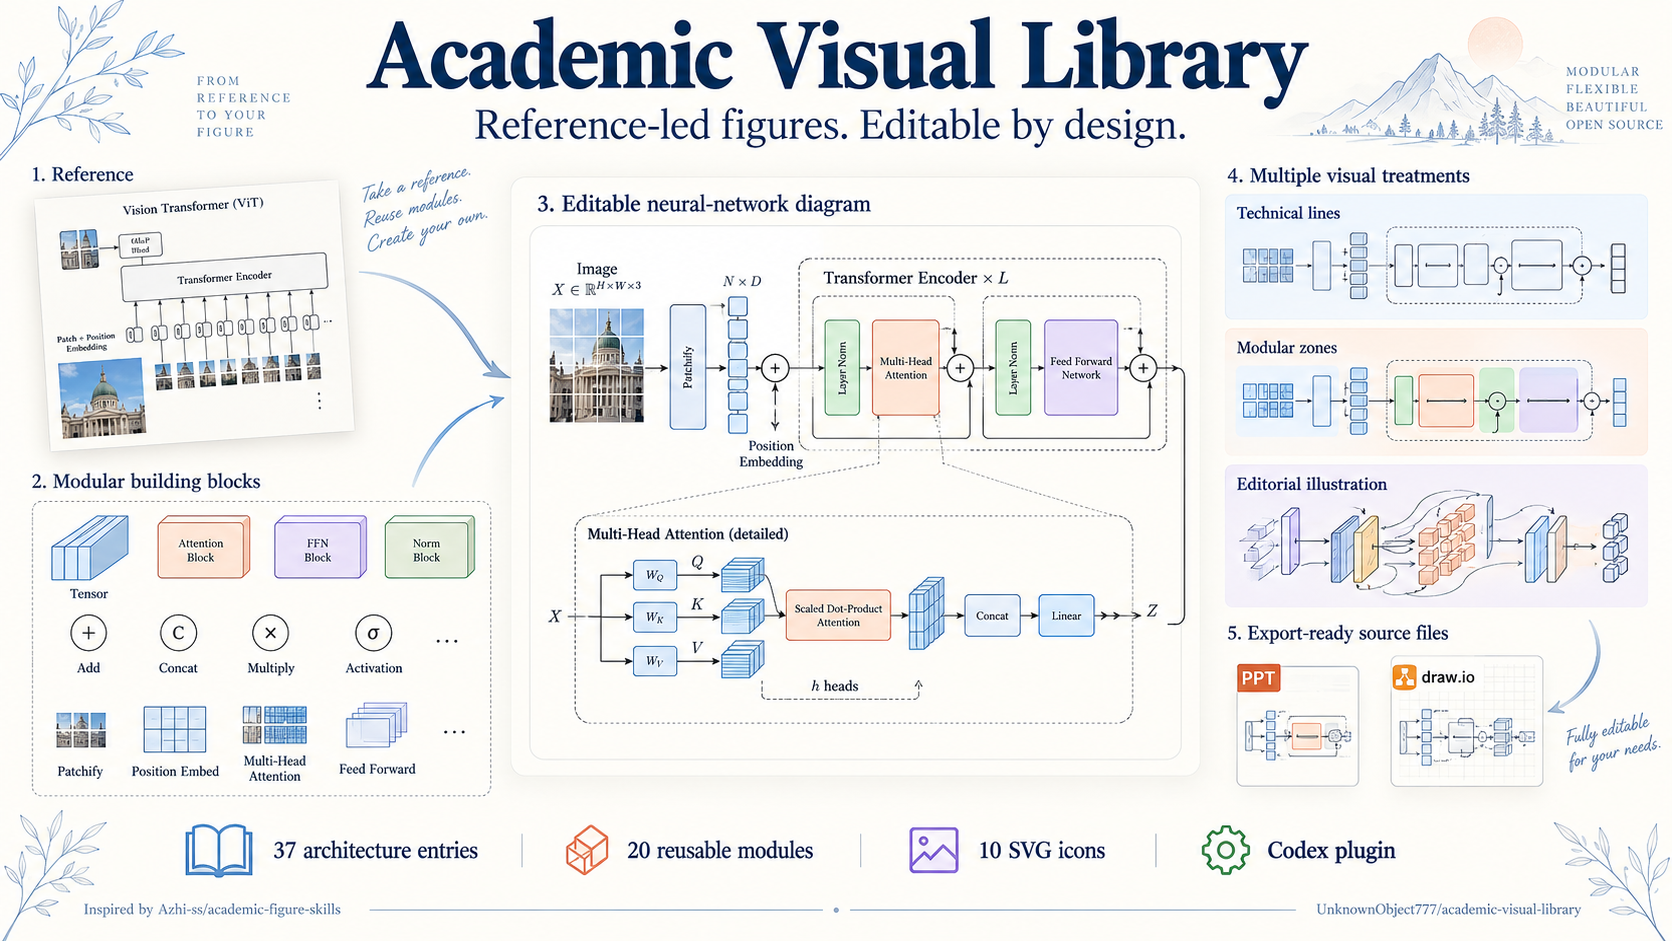
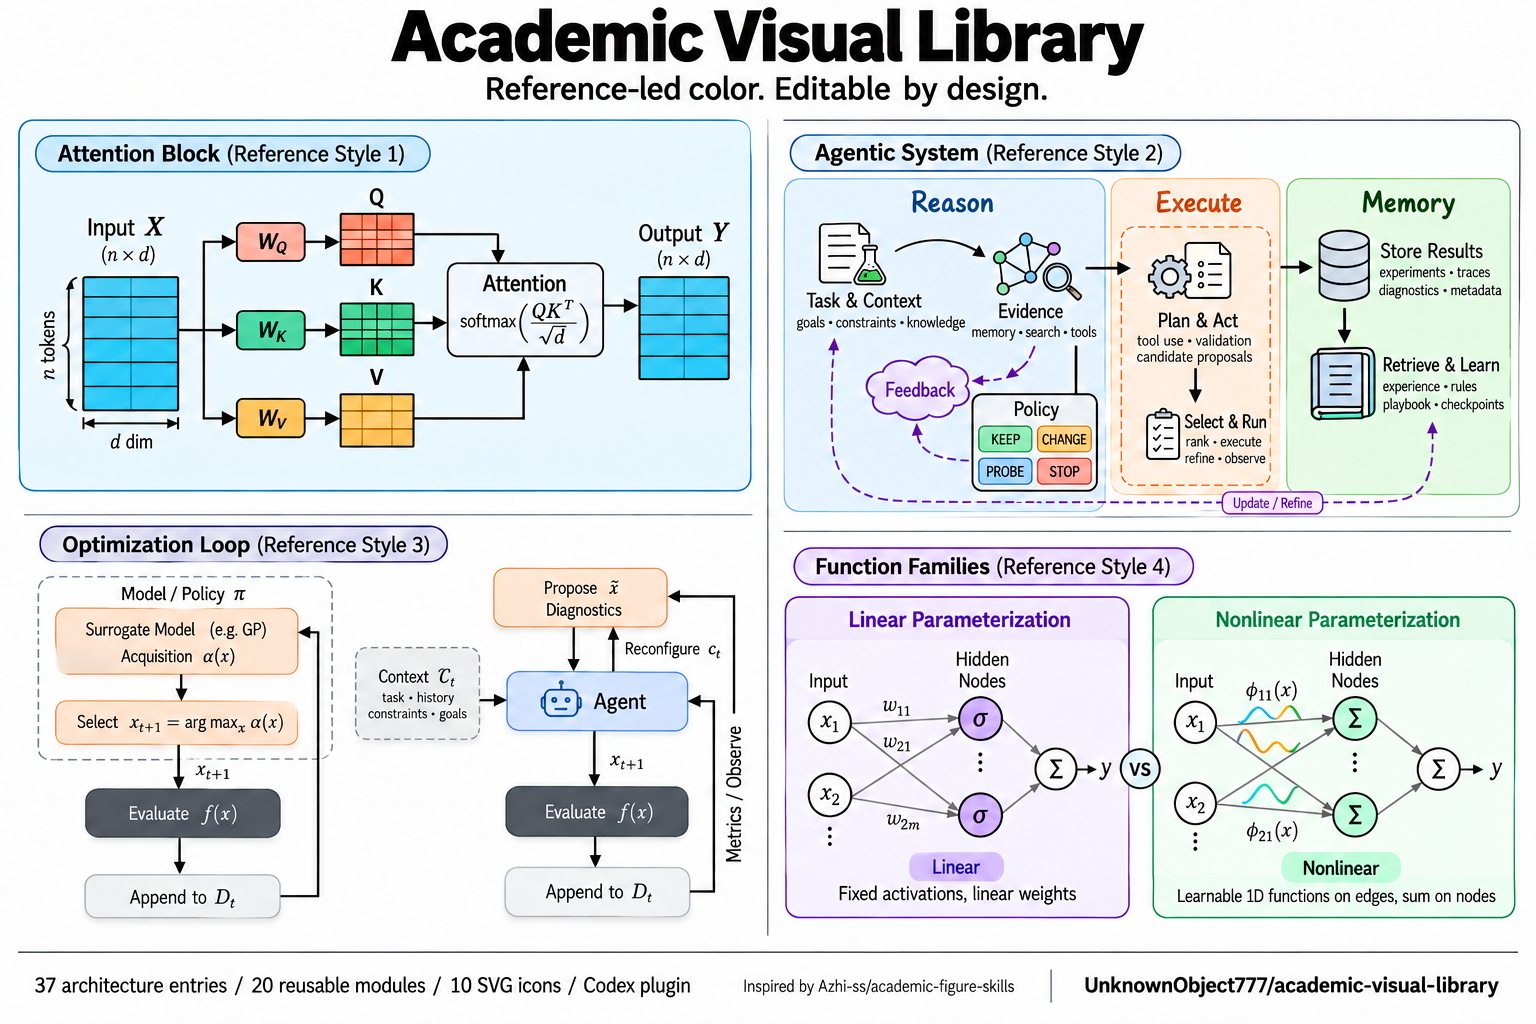
Prioritize reference palettes and rebuild the launch poster

diff --git a/design.md b/design.md
@@ -1,0 +1,28 @@
+# Reference fidelity comes first
+
+Color and visual language are the first design decisions, before layout or template selection. Scientific truth remains binding: a style reference never supplies the target method's claims or topology.
+
+## Working rule
+
+Inspect the actual reference pixels. Identify dominant canvas/fill/ink colors, accent area, saturation, contrast, color-to-role relationships, typography, border weight, corners, shadows and diagram density. Briefly state the observed direction before drawing. If exact colors matter, sample flat interior areas; JPEG edges and shading are not source hex values. Read [style-palettes.yaml](assets/style-palettes.yaml) for four reference-derived starting points and view the linked image. These are approximate reconstructed tokens, not recovered author specifications or IEEE standards.
+
+Priority: user's explicit color changes → uploaded/selected reference → established project identity → a deliberately chosen bundled profile. Never average profiles into one rainbow palette. Four profiles are examples, not a limit on supported styles. If several references conflict, assign a specific role to each (e.g. palette from A, geometry from B) instead of unconsciously blending them.
+
+Preserve color semantics: the same role receives the same treatment; visually distinct paths need distinct marks as well as color when necessary. Large fills, small accents and dark anchors have different jobs. Match their relative area and contrast, not merely a list of hex codes. Adapt template colors before rendering; a template's stock colors have no priority.
+
+## Four observed references
+
+| Reference | Palette behavior | Visual language to preserve |
+|---|---|---|
+| [Technical vector](assets/style-references/modern_technical_vector_deepseek_mla.jpg) | Pale blue/neutral/lilac regions; saturated green, cyan and amber tensor bars; black paths | Dense technical labeling, orthogonal wiring, segmented tensors and a warm attention heatmap |
+| [Illustrated modular](assets/style-references/illustrated_modular_agentic_matribo.jpg) | Blue reasoning / peach execution / green memory; purple feedback, coral exception | Ink outlines, drawn scientific objects, asymmetric functional zones and a recoverable loop |
+| [Airy mathematical flow](assets/style-references/pastel_airy_ui_agentic_bo.jpg) | White space dominates; peach surrogate, ice-blue agent, charcoal evaluation, gray storage | Serif mathematics, dashed scope, context layering, restrained soft shadows and thin arrows |
+| [Contrast and ablation](assets/style-references/contrast_ablation_kan.jpg) | Purple baseline against green comparison; colored curves only at the mechanism | Two balanced semantic fields, black node outlines, gray edges and explicit local mechanism differences |
+
+These are the first four gallery examples in Azhi-ss/academic-figure-skills at the recorded commit. Upstream currently offers six examples. Their images are included under its repository MIT license; retain [the notices](THIRD_PARTY_NOTICES.md). Do not import KAN efficiency statements or other example claims into unrelated work.
+
+## Anti-default review
+
+“Anti-AI” here means resisting unrequested generator defaults, not asserting that a color proves human authorship. Pastel, purple and rounded corners can be appropriate when the reference uses them. Reject them when they replace the selected reference. Do not add generic cream backgrounds, blue-purple gradients, floating equal-sized cards, leaves, mountains, sparkles, glossy 3D modules or oversized editorial titles without support from the request/reference.
+
+Compare the final render and reference side by side at thumbnail and reading size: palette dominance, accent proportions, dark anchors, line character, typography and density. Topology can pass while style fails. A style mismatch requires a revision; do not waive it because the result is attractive. State unresolved deviations honestly. Use ordinary prose and a small token file when useful; no mandatory scene serialization or audit IR.

diff --git a/skills/academic-visual-assets/SKILL.md b/skills/academic-visual-assets/SKILL.md
@@ -9,6 +9,10 @@ metadata:
 
 Use the model's visual understanding to select and adapt actual assets. Templates are editable starting points, not a scientific authority or a mandatory style catalogue.
 
+## Style before assets
+
+Read [design.md](../../design.md): selected reference colors and mark language override all bundled shapes and default fills. View the matching image in [the four style profiles](../../assets/style-palettes.yaml); adapt assets to it before composing. Anti-default review is a required visual check, not a claim of human authorship.
+
 ## Look before choosing
 
 Inspect the user's target content and uploaded style. View the relevant PNG sheet in [the visual catalogue](references/catalog.md), then open only the selected source template or icon. The sheets are for visual selection, not a full-catalogue context dump.
@@ -18,7 +22,8 @@ Inspect the user's target content and uploaded style. View the relevant PNG shee
 - Editable network slides: `../../assets/pptx/network-models.pptx`.
 - Recolorable equipment/system SVGs: `../../assets/icons/`.
 - Drag-and-drop SVG device library for draw.io: `../../assets/drawio/device-icons.xml` (vector image assets with editable labels, not native primitive paths).
-- Optional palette examples: `../../assets/palettes.json`.
+- Reference-derived color roles: [style-palettes.yaml](../../assets/style-palettes.yaml).
+- Legacy template color examples: `../../assets/palettes.json`; never select these automatically.
 
 The repository has 37 entries, including one without an upstream title. Do not invent its model identity. Previews and PPT slides use a limited primitive renderer; original draw.io preserves upstream geometry/styles and remains authoritative. Neither upstream labels nor dimensions automatically describe the user's method.
 

diff --git a/docs/upstream-integration.md b/docs/upstream-integration.md
@@ -13,6 +13,8 @@ Reviewed `Azhi-ss/academic-figure-skills` at commit `2c7f9e3ccde9171927f6b8f068c
 
 Deliberate adaptations: no mandatory FigureSpec/audit serialization; no mandatory first-render style menu when the request supports a reasonable default; no automatic subagent dispatch; no automatic provenance stripping. Explicit review and style-selection requests remain binding.
 
-New material: visually browsable native network/module assets, SVG device library, three optional color conventions, object-level editable PPT sources and a limited draw.io primitive renderer. These assets complement native image generation rather than replacing it for every visual style.
+New material: visually browsable native network/module assets, SVG device library, four separate reference-derived style profiles with actual previews, object-level editable PPT sources and a limited draw.io primitive renderer. These assets complement native image generation rather than replacing it for every visual style.
 
 A local structure/render validation is not a controlled comparison of model output quality. Future evidence should evaluate reference-style fidelity, topology accuracy, label correctness and editability on shared inputs, with actual produced artifacts and disclosed model/tool versions.
+
+User-driven revision: palette and visual language moved to the first workflow decision, backed by `design.md` and role-based YAML tokens. Reference fidelity is checked independently of scientific topology. Generic promotional decoration is no longer a default.

diff --git a/skills/academic-figure-workflow/references/reference-style.md b/skills/academic-figure-workflow/references/reference-style.md
@@ -4,7 +4,7 @@ Treat the actual reference as the design authority within explicit user constrai
 
 ## Look for the visual identity
 
-Observe the composition and spatial hierarchy before sampling color. Notice whether the reference uses a shared scene, small multiples, a central mechanism, spatial layering, a wide panorama or compact technical details. Also look at density/whitespace, illustration and mark language, strokes/arrowheads, shapes/surfaces, depth/texture, typography and semantic color relationships.
+Read [the first-priority style contract](../../../design.md). Observe the whole reference, then establish palette and semantic color roles before choosing the target layout. Notice whether the reference uses a shared scene, small multiples, a central mechanism, spatial layering, a wide panorama or compact technical details. Also look at density/whitespace, illustration and mark language, strokes/arrowheads, shapes/surfaces, depth/texture and typography. Match color area and contrast as well as hues.
 
 Choose the features that materially distinguish this reference and reproduce them coherently. A tiny internal note is sufficient. Do not always output this checklist or classify it into a fixed preset. A dark textured isometric style should not quietly become a white rounded-card diagram.
 

diff --git a/skills/academic-figure-workflow/SKILL.md b/skills/academic-figure-workflow/SKILL.md
@@ -9,6 +9,12 @@ metadata:
 
 Understand the content and reference, compose, draw, inspect and repair. Use the agent's visual reasoning directly; no mandatory scene IR, prompt compiler or serial analysis pipeline.
 
+## First priority: reference color and visual language
+
+Read [design.md](../../design.md) before composing any figure. Inspect actual reference pixels and choose their palette, semantic color roles, accent proportions, ink, typography and mark language before layout. An uploaded reference overrides every stock template and palette. Use the four inspected examples in [style-palettes.yaml](../../assets/style-palettes.yaml) only as separate starting points, never an averaged pastel default. They are approximate tokens, not a scene IR. Arbitrary new references remain supported.
+
+Anti-AI means avoiding unrequested generator defaults and checking reference fidelity. A correct topology with the wrong palette/style is not an accepted result. Compare actual final rendering with the reference and revise observed mismatches. Scientific accuracy remains mandatory; never borrow example claims.
+
 ## Match the requested output
 
 | Request | Finish with |

diff --git a/THIRD_PARTY_NOTICES.md b/THIRD_PARTY_NOTICES.md
@@ -25,3 +25,5 @@ The original academic-figure-skills source at https://github.com/Azhi-ss/academi
 New module sheets, asset instructions and helper code are distributed under the root MIT license. The public analyzer/workflow instructions are a locally rewritten, attributed extension of the academic-figure workflow; retained style references and helpers keep the upstream MIT notice. Upstream asset licenses and notices continue to apply independently.
 
 PlotNeuralNet and WangX0111/drawio-nn-templates were researched as possible future sources but are not bundled in this version. No commercial/vendor stencil sets are implicitly relicensed.
+
+Four gallery JPG references from Azhi-ss/academic-figure-skills (commit `2c7f9e3ccde9171927f6b8f068c16d15d0f5612a`) are bundled in `assets/style-references/` under the upstream repository MIT license, preserved in `licenses/Academic-Figure-Skills-LICENSE.txt`. The profiles reconstruct approximate visual tokens; they do not claim original author hex codes. Example diagram content is reference material, not evidence about this plugin.

diff --git a/README.md b/README.md
@@ -26,6 +26,12 @@ A multimodal-first academic figure workflow for Codex: inspect your reference an
 
 Use only what the current task needs. The plugin adds resources and procedures to a capable multimodal agent; it does not train a new model or require a separate paid API/MCP service.
 
+## Reference color is the first design decision
+
+The workflow now treats reference palette, semantic color roles, line character and typography as the first visual decisions. See [design.md](design.md), [four reference-derived token profiles](assets/style-palettes.yaml) and their actual bundled previews. Anti-AI means resisting unrequested generator defaults, not banning pastel or pretending colors identify authorship. Stock template fills never override a selected reference. No scene IR is required.
+
+配色与视觉语言是技能的首要设计要求：先看真实参考图，再确定颜色用途、面积占比、线条与字体，最后布局。四套独立色板不混成默认柔彩；新上传的任意风格优先于预置模板。
+
 ## Install in Codex
 
 ```bash

diff --git a/skills/academic-visual-assets/references/modules-and-color.md b/skills/academic-visual-assets/references/modules-and-color.md
@@ -1,6 +1,6 @@
 # Consistent modules and color
 
-Standardize reusable visual vocabulary, not an architecture's scientific details. Begin with the uploaded reference and the established paper style; adapt prefab shapes to it. Without a reference use the small palette examples, not a venue-to-color rule.
+Standardize reusable visual vocabulary, not an architecture's scientific details. Read [design.md](../../../design.md). Begin with the uploaded reference and the established paper style; adapt prefab shapes to it. Without a reference choose a suitable profile deliberately from [the four separate style palettes](../../../assets/style-palettes.yaml), not an automatic rainbow default or a venue-to-color rule.
 
 | Module | Useful visual starting point | Verify before drawing |
 |---|---|---|
